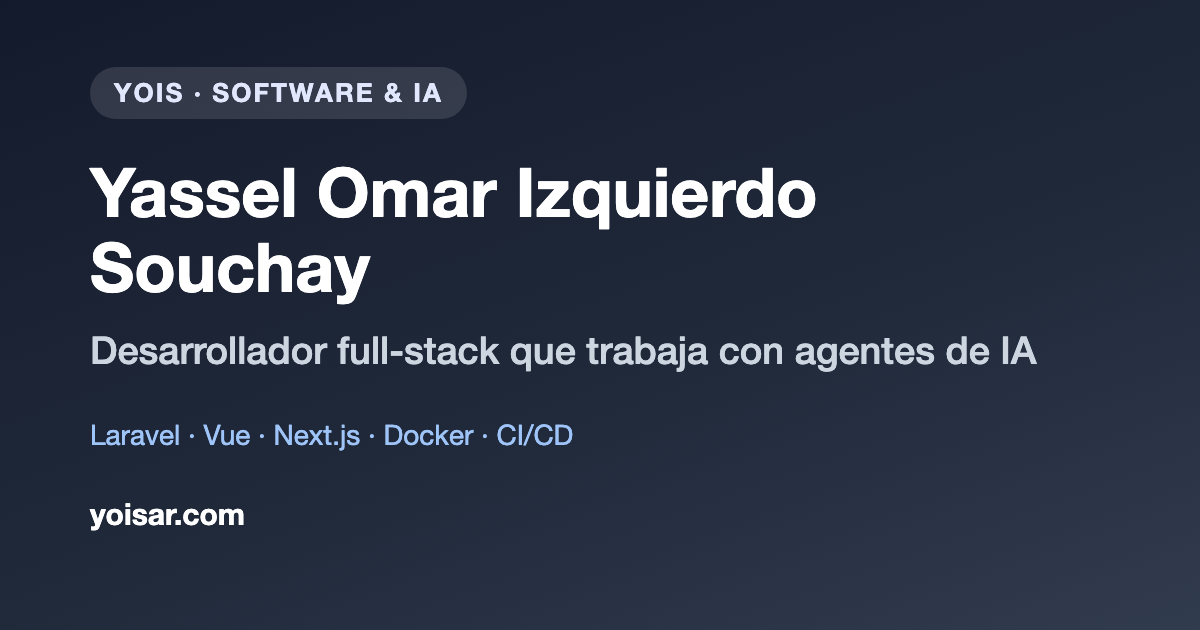
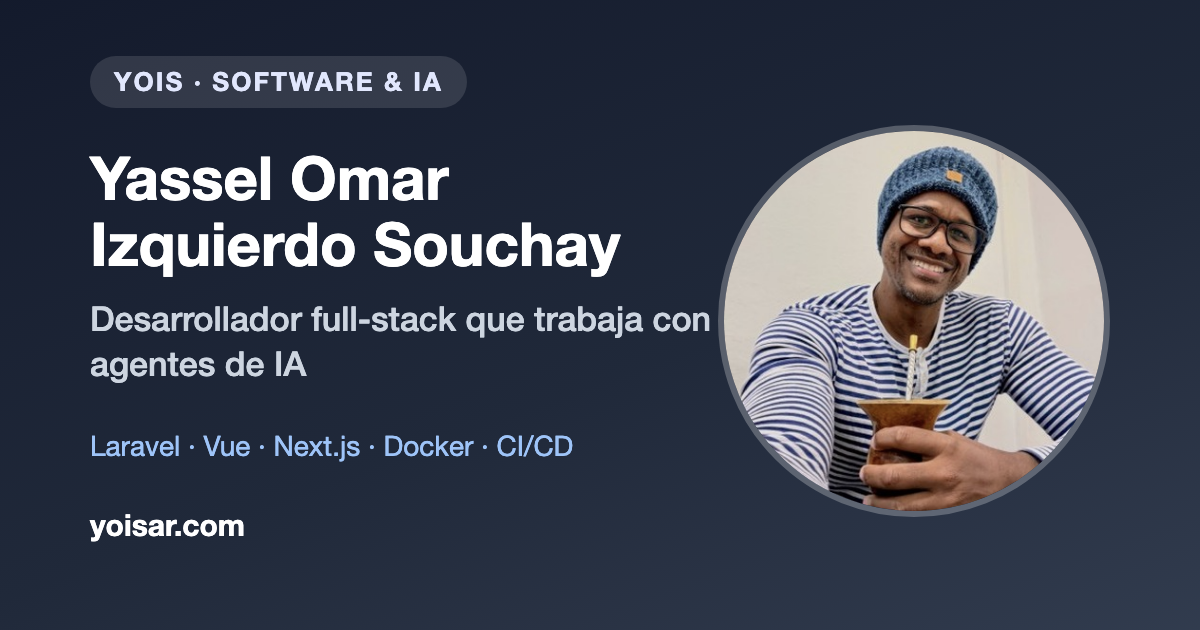
fix(deploy): publicar build en el directorio que sirve nginx; foto de perfil y OG
- deploy-prod.sh copia el build del contenedor a frontend/build (el vhost del host lo sirve desde disco)
- Foto de perfil de LinkedIn en hero, JSON-LD e imagen para compartir

diff --git a/docs/cv/og-image.html b/docs/cv/og-image.html
@@ -1,13 +1,15 @@
 <!doctype html><html><head><meta charset="utf-8"><style>
 html,body{margin:0;width:1200px;height:900px}html{background:#0f172a}
-body{background:linear-gradient(160deg,#0f172a 0%,#1e293b 55%,#334155 100%);font-family:-apple-system,"Helvetica Neue",Arial,sans-serif;color:#fff;display:flex;flex-direction:column;justify-content:center;padding:0 90px;box-sizing:border-box}
+body{background:linear-gradient(160deg,#0f172a 0%,#1e293b 55%,#334155 100%);font-family:-apple-system,"Helvetica Neue",Arial,sans-serif;color:#fff;display:flex;flex-direction:column;justify-content:center;padding:0 90px;position:relative;box-sizing:border-box}
 .badge{display:inline-block;align-self:flex-start;background:rgba(255,255,255,.12);color:#e0e7ff;letter-spacing:.08em;font-size:26px;font-weight:600;padding:10px 24px;border-radius:999px;margin-bottom:36px}
-h1{font-size:68px;line-height:1.1;margin:0 0 20px;font-weight:800}
-h2{font-size:38px;line-height:1.3;margin:0 0 44px;font-weight:500;color:#cbd5e1}
+h1{max-width:640px;font-size:60px;line-height:1.1;margin:0 0 20px;font-weight:800}
+h2{font-size:34px;max-width:640px;line-height:1.3;margin:0 0 44px;font-weight:500;color:#cbd5e1}
 .stack{font-size:28px;color:#93c5fd;margin:0 0 14px}
+.photo{position:absolute;right:90px;top:50%;margin-top:-190px;width:380px;height:380px;border-radius:50%;object-fit:cover;border:6px solid rgba(255,255,255,.25)}
+.text{max-width:640px}
 .url{font-size:30px;color:#fff;font-weight:700}
 </style></head><body>
-<span class="badge">YOIS · SOFTWARE &amp; IA</span>
+<img class="photo" src="yois-perfil.jpg" alt=""><span class="badge">YOIS · SOFTWARE &amp; IA</span>
 <h1>Yassel Omar Izquierdo Souchay</h1>
 <h2>Desarrollador full-stack que trabaja con agentes de IA</h2>
 <p class="stack">Laravel · Vue · Next.js · Docker · CI/CD</p>

diff --git a/frontend/public/index.html b/frontend/public/index.html
@@ -20,7 +20,7 @@
   <meta name="twitter:description" content="Sistemas en producción para el sector público y SaaS propios, con agentes de IA y pruebas automatizadas.">
   <meta name="twitter:image" content="https://yoisar.com/og-image.png">
   <script type="application/ld+json">
-  {"@context":"https://schema.org","@type":"Person","name":"Yassel Omar Izquierdo Souchay","alternateName":"YOIS","url":"https://yoisar.com/","image":"https://yoisar.com/og-image.png","jobTitle":"Desarrollador full-stack","email":"me@yoisar.com","sameAs":["https://github.com/yoisar","https://www.linkedin.com/in/yoisar/"],"knowsAbout":["Laravel","Vue.js","Next.js","PostgreSQL","Docker","CI/CD","Inteligencia artificial aplicada","RAG"]}
+  {"@context":"https://schema.org","@type":"Person","name":"Yassel Omar Izquierdo Souchay","alternateName":"YOIS","url":"https://yoisar.com/","image":"https://yoisar.com/yois-perfil.jpg","jobTitle":"Desarrollador full-stack","email":"me@yoisar.com","sameAs":["https://github.com/yoisar","https://www.linkedin.com/in/yoisar/"],"knowsAbout":["Laravel","Vue.js","Next.js","PostgreSQL","Docker","CI/CD","Inteligencia artificial aplicada","RAG"]}
   </script>
 
   <link rel="preconnect" href="https://fonts.googleapis.com">

diff --git a/frontend/src/App.js b/frontend/src/App.js
@@ -259,6 +259,8 @@ export default function PresentacionYassel() {
                                       style={{ background: 'rgba(255,255,255,0.12)', color: '#e0e7ff', letterSpacing: '0.08em', fontSize: '0.8rem' }}>
                                     {t('hero.badge')}
                                 </span>
+                                <img src="/yois-perfil.jpg" alt={FULL_NAME} width="96" height="96"
+                                     className="rounded-circle mb-3 border border-3 border-light border-opacity-25" />
                                 <p className="text-white-50 fw-semibold mb-2">{FULL_NAME}</p>
                                 <h1 className="display-4 fw-bold text-white mb-3" style={{ lineHeight: 1.15 }}>
                                     {t('hero.title')}

diff --git a/docs/yois/req-ANEXO N3 – SISTEMA DE NAVEGACIÓN CON MENÚ HAMBURGUESA LATERAL IZQUIERDA.md b/docs/yois/req-ANEXO N3 – SISTEMA DE NAVEGACIÓN CON MENÚ HAMBURGUESA LATERAL IZQUIERDA.md
@@ -1,0 +1,102 @@
+# REQUERIMIENTO ANEXO N°3 – SISTEMA DE NAVEGACIÓN CON MENÚ HAMBURGUESA LATERAL IZQUIERDA
+**Ref.:** Adenda al reposicionamiento de yoisar.com
+**Fecha:** 2026-06-20
+**Voz obligatoria:** Primera persona del singular (Yo / Mí / Mío)
+
+---
+
+## 1. Justificación Estratégica del Menú Lateral Izquierdo
+
+Yo necesito que mi sitio web tenga un sistema de navegación claro, ordenado y siempre accesible. Decido ubicar el menú tipo "hamburguesa" (ícono de tres líneas horizontales) en la **esquina superior izquierda** de mi pantalla por las siguientes razones:
+
+- **Jerarquía visual:** Al dejar la derecha libre, puedo ubicar mis principales Call To Action (Ej: "Cotizá conmigo" o el selector de idiomas) en la zona de mayor interacción del usuario (derecha superior), sin saturar el header.
+- **Estética corporativa:** Los dashboards empresariales y plataformas SaaS suelen usar la izquierda para la navegación profunda. Esto refuerza mi imagen de proveedor de software serio.
+- **Acceso rápido a mi portfolio:** Mi mayor activo de venta son mis proyectos. Este menú debe ser el vehículo principal para que el visitante pueda explorar **todos y cada uno de mis desarrollos** en menos de 2 clics, sin tener que scrollear interminablemente.
+
+---
+
+## 2. Especificaciones Funcionales del Componente
+
+### 2.1. Comportamiento del Ícono (Hamburguesa)
+- El ícono de tres líneas horizontales debe ser **fijo (sticky)** en el header y permanecer visible en todo momento mientras el usuario navega por mi landing page.
+- Al hacer clic o tocar sobre el ícono, se debe desplegar un **panel lateral (drawer / off-canvas)** que emerge desde el borde izquierdo de la pantalla hacia la derecha, cubriendo parcialmente el contenido principal (aproximadamente un 75% del ancho en escritorio y el 100% en dispositivos móviles).
+- El fondo del contenido principal debe oscurecerse (efecto overlay) para enfocar la atención del usuario en el menú.
+- Para cerrar el menú, el usuario debe poder:
+    - Tocar nuevamente el ícono de la "X" (cerrar) dentro del panel.
+    - Hacer clic en el área oscurecida del fondo (overlay).
+    - Presionar la tecla "ESC" del teclado.
+
+### 2.2. Estructura de Contenido Interno del Drawer
+El panel lateral debe estar organizado en dos bloques claramente diferenciados visualmente, utilizando la paleta corporativa definida en el Anexo N°2 (fondos slate/gris, tipografía limpia).
+
+#### Bloque A: Acceso a Secciones Generales (Landing)
+Aquí debo ubicar los enlaces de anclaje (anchor links) que desplazan suavemente el scroll hacia las secciones principales de mi página de inicio:
+
+1. Inicio / Hero (Volver al principio).
+2. Mis Servicios (Desarrollo, SaaS, IA).
+3. Mi Infraestructura (Mi diferencial técnico).
+4. Contacto / Hablemos.
+
+#### Bloque B: Listado Completo de Mis Proyectos (Obligatorio)
+Este es el corazón del menú. Necesito que todos mis proyectos estén listados de forma explícita, con su nombre, estado y un enlace directo. Para mantener el orden visual, agruparé mis proyectos en subcategorías dentro del mismo bloque:
+
+**📌 Mis Proyectos Comerciales (SaaS / Propios):**
+- VentaRifas.com (Activo)
+- Distriboo (Activo)
+- Yois Snacks (Activo)
+- Planning Yoisar (🚀 En desarrollo)
+- PortalCheck (🚀 En desarrollo)
+
+**📌 Mis Proyectos Gubernamentales (Misión Crítica):**
+- CGM - Sistema de Gestión (Activo - Gobierno de Misiones)
+- App Patología - Hospital Madariaga (Activo)
+
+**📌 Proyectos para Terceros (Modernización):**
+- Guajira - Modernización Frontend (🚀 En curso - `front.guajira.dev.yoisar.com`)
+
+---
+
+## 3. Experiencia de Usuario (UX) al Seleccionar un Proyecto
+
+- **Si el proyecto tiene un dominio propio o una URL pública (ej. VentaRifas, Guajira):** Al hacer clic en su nombre, el enlace debe abrirse en una **nueva pestaña** (`target="_blank"`). Esto es clave para que el visitante no abandone mi sitio principal y pueda volver fácilmente al menú para seguir explorando.
+- **Si el proyecto está en desarrollo y no tiene vista pública:** Al hacer clic, el menú debe cerrarse y la página debe hacer scroll hasta la sección de "Portfolio" en el landing, resaltando brevemente la ficha del proyecto (para que el usuario lea la descripción completa).
+- **Cierre automático:** Una vez que el usuario hace clic en cualquier opción (sección o proyecto), el panel lateral debe cerrarse automáticamente para no obstruir la vista del contenido seleccionado.
+
+---
+
+## 4. Integración con la Internacionalización (i18n)
+
+Todos los textos dentro del menú hamburguesa deben ser traducidos al **Inglés y Portugués**, manteniendo la coherencia con el selector de idiomas definido en el Anexo N°2.
+
+- **Español:** "Mis Proyectos", "Servicios", "Infraestructura", "Contacto".
+- **Inglés:** "My Projects", "Services", "Infrastructure", "Contact".
+- **Portugués:** "Meus Projetos", "Serviços", "Infraestrutura", "Contato".
+
+Los nombres de los proyectos (VentaRifas, Distriboo, PortalCheck, etc.) son **marcas registradas/nombres propios** y no deben traducirse bajo ningún concepto, solo se traducirá su descripción de estado (Activo / En desarrollo / En curso).
+
+---
+
+## 5. Ajuste de Diseño Corporativo (Tailwind)
+
+- **Ícono:** El ícono hamburguesa debe ser de un color sobrio (blanco o gris claro si el header es oscuro, o azul marino si el header es claro), con un tamaño adecuado para ser tocado cómodamente en móviles (mínimo 44x44 píxeles).
+- **Panel desplegado:** Debe tener un fondo sólido (blanco o gris muy claro) que contraste con el overlay oscuro. Los ítems del menú deben tener un **efecto hover suave** (cambio de color de fondo o subrayado) para darle una sensación corporativa y pulida.
+- **Separadores visuales:** Usar líneas divisorias sutiles o un espaciado notable entre el Bloque A (Secciones) y el Bloque B (Proyectos) para que el usuario entienda rápidamente que hay dos tipos de navegación disponibles.
+- **Badges de estado:** Junto a cada proyecto, debo mostrar una etiqueta (badge) pequeña con el estado (verde para "Activo", amarillo para "En desarrollo", azul para "Misión Crítica"), tal como se estipuló en el Anexo N°1. Esto le da al usuario información de madurez del producto sin necesidad de salir del menú.
+
+---
+
+## 6. Prioridad de Visibilidad (Importante)
+
+El menú hamburguesa en la izquierda será el **principal sistema de navegación** en dispositivos móviles y tablets. En escritorio, además del menú hamburguesa (que permanecerá visible), podré tener en el header derecho los botones de "Selector de idioma" y "Cotizar", pero el acceso a la lista de proyectos **solo** estará disponible de forma tan rápida y completa a través de este panel lateral izquierdo. 
+
+Esto obliga a los visitantes a interactuar con mi menú, descubriendo la totalidad de mi portfolio (incluyendo Guajira y los proyectos en desarrollo) desde el primer momento.
+
+---
+
+## 7. Criterios de Aceptación
+
+- [ ] El ícono de la hamburguesa está anclado en la esquina superior izquierda y es visible en todos los breakpoints.
+- [ ] El panel lateral se abre desde la izquierda ocupando el ancho estipulado y se cierra correctamente con los métodos descritos.
+- [ ] La lista de proyectos dentro del menú contiene **absolutamente todos** los mencionados en la historia (VentaRifas, Distriboo, Yois Snacks, Planning, PortalCheck, CGM, App Patología y Guajira).
+- [ ] Los enlaces a proyectos externos (VentaRifas, Guajira, etc.) abren en nueva pestaña.
+- [ ] Los textos del menú cambian dinámicamente según el idioma seleccionado (ES/EN/PT).

diff --git a/docs/yois/req-AJUSTE-GRAMATICAL-SEMÁNTICO–ELIMINACIÓN-POSESIVO-MI-MÍO-EN PROYECTOS.md b/docs/yois/req-AJUSTE-GRAMATICAL-SEMÁNTICO–ELIMINACIÓN-POSESIVO-MI-MÍO-EN PROYECTOS.md
@@ -1,0 +1,103 @@
+# REQUERIMIENTO DE AJUSTE GRAMATICAL Y SEMÁNTICO – ELIMINACIÓN DEL POSESIVO "MI/MÍO" EN PROYECTOS
+**Ref.:** Corrección de voz y propiedad intelectual
+**Fecha:** 2026-06-21
+**Aplicación:** Obligatoria en textos, menús, títulos y descripciones de proyectos
+
+---
+
+## 1. Principio Fundamental (La Regla de Oro)
+
+A partir de este momento, queda **terminantemente prohibido** utilizar los posesivos **"Mi"**, **"Mis"**, **"Mío"**, **"Mía"**, **"Míos"** o **"Mías"** para anteceder o referirse a **cualquier proyecto, sistema o aplicación** listada en mi portfolio.
+
+La relación correcta que debo comunicar es la de **"autoría"** o **"desarrollo a cargo"**, no la de "propiedad". Para expresar esto, debo utilizar:
+
+- **Verbos en primera persona de acción:** *"Desarrollo"*, *"Construyo"*, *"Diseñé"*, *"Estoy a cargo de"*, *"Trabajo en"*.
+- **Preposición "por" + "mí":** *"hecho por mí"*, *"desarrollado por mí"*, *"construido por Yois"*.
+- **Sustantivos de relación:** *"Proyectos que desarrollo"*, *"Sistemas a mi cargo"*, *"Trabajos realizados"*.
+
+---
+
+## 2. Aplicación por Tipología de Proyecto (Casos concretos)
+
+| **Tipo de Proyecto** | **Ejemplo INCORRECTO (Prohibido)** | **Ejemplo CORRECTO (Obligatorio)** | **Justificación** |
+| :--- | :--- | :--- | :--- |
+| **Gubernamentales (CGM, Hospital)** | *"Mi sistema CGM"* / *"Mi desarrollo para el Gobierno"* | *"El sistema CGM, desarrollado por mí para la Casa de Gobierno"* / *"Sistema que construí para el Hospital Madariaga"* | El sistema es del Estado. Yo fui el contratista/desarrollador, no el dueño. |
+| **Salud (App Patología)** | *"Mi aplicación de Patología"* | *"La aplicación de Patología del Hospital Madariaga, cuyo desarrollo estuve a cargo"* | El activo digital pertenece al nosocomio. |
+| **Proyectos Personales (SaaS)** | *"Mi VentaRifas"* / *"Mi Distriboo"* | *"VentaRifas, plataforma que desarrollo y opero"* / *"Distriboo, proyecto SaaS construido por mí"* | Aunque soy dueño legal, semánticamente debo enfatizar el *trabajo de desarrollo* por encima de la posesión para unificar el criterio en toda la web. |
+| **Proyectos para Terceros (Guajira)** | *"Mi proyecto Guajira"* | *"Guajira, proyecto de modernización frontend en el que estoy trabajando para un tercero"* | El código y el sistema son del cliente; yo solo proveo el servicio de modernización. |
+| **Proyectos en Desarrollo** | *"Mi Planning Yoisar"* | *"Planning Yoisar, herramienta que estoy desarrollando actualmente"* | Uso el verbo en gerundio para mostrar acción continua. |
+
+---
+
+## 3. Impacto en las Secciones del Sitio (Correcciones forzosas)
+
+### 3.1. En el Hero (Cabecera)
+- **Texto Actual (Incorrecto):** *"Conocé mis proyectos."*
+- **Texto Corregido (Obligatorio):** *"Conocé los proyectos que desarrollo."* o *"Explorá mi trabajo en software."*
+
+### 3.2. En el Menú Hamburguesa (Bloque de Proyectos)
+- **Título del Bloque (Incorrecto):** *"Mis Proyectos"*
+- **Título del Bloque (Corregido):** *"Proyectos Desarrollados"* o *"Portfolio de Soluciones"* (manteniendo la coherencia i18n: *Developed Projects* / *Projetos Desenvolvidos*).
+- **Listado interno:**
+    - *Incorrecto:* "Mi VentaRifas"
+    - *Corregido:* "VentaRifas (Activo)" – así, sin posesivo, directo al nombre de la marca.
+
+### 3.3. En la Sección "Sobre Mí / Enfoque"
+- **Incorrecto:** *"Mis proyectos abarcan desde el Gobierno..."*
+- **Corregido:** *"Los proyectos que desarrollo abarcan desde sistemas gubernamentales..."* o *"He desarrollado soluciones para el Gobierno y el sector privado."*
+
+### 3.4. En las Fichas de Portfolio (Descripciones)
+- **Incorrecto:** *"Mi sistema de gestión documental para la Casa de Gobierno de Misiones."*
+- **Corregido:** *"Sistema de gestión documental que desarrollé para la Casa de Gobierno de Misiones."*
+- **Incorrecto:** *"Mi desarrollo aplicativo para el área de patología."*
+- **Corregido:** *"Aplicativo para el área de patología del Hospital Madariaga, construido por mí para digitalizar procesos críticos."*
+
+---
+
+## 4. Excepciones Lógicas (Lo que SÍ puedo llamar "Mío")
+
+Para evitar un exceso de corrección robótica, se establece que **sí está permitido** usar el posesivo "mi/mis" cuando me refiera a:
+
+1. **Mi infraestructura:** (Servidores, nube, microservicios) porque es patrimonio técnico que compré y administro yo.
+2. **Mis servicios:** (Desarrollo, SaaS, IA) porque son mis capacidades profesionales y oferta comercial.
+3. **Mi enfoque / mi metodología:** Porque es mi forma de trabajar.
+
+**Ejemplo permitido:** *"Ofrezco mis servicios de desarrollo e IA corriendo sobre mi propia infraestructura."* (Aquí "mis servicios" y "mi infraestructura" son correctos).  
+**Ejemplo prohibido:** *"Ofrezco mis servicios para mi sistema CGM."* → Debe ser: *"Ofrezco mis servicios para el sistema CGM, que desarrollé."*
+
+---
+
+## 5. Impacto en la Internacionalización (i18n)
+
+Esta corrección semántica debe trasladarse a los tres idiomas:
+
+- **Inglés:** Reemplazar *"My projects"* por *"Projects I develop"* o *"Portfolio"*. Reemplazar *"My system"* por *"The system I built"*.
+- **Portugués:** Reemplazar *"Meus projetos"* por *"Projetos que desenvolvo"*. Reemplazar *"Meu sistema"* por *"O sistema que desenvolvi"*.
+
+**Nota:** Los nombres propios de los proyectos (VentaRifas, CGM, PortalCheck, Guajira) no se traducen ni se modifican.
+
+---
+
+## 6. Resumen de Reemplazos Léxicos (Buscar y Reemplazar conceptual)
+
+| **Término Prohibido** | **Término Sugerido para Reemplazo** |
+| :--- | :--- |
+| Mi proyecto | El proyecto que desarrollo |
+| Mis proyectos | Los proyectos que desarrollo / Los proyectos a mi cargo |
+| Mi sistema | El sistema que construí / El sistema desarrollado |
+| Mi aplicación | La aplicación desarrollada por mí |
+| Mi plataforma | La plataforma que diseñé |
+| Mi SaaS | El SaaS que opero / El producto SaaS que construyo |
+| Mi desarrollo | El desarrollo realizado |
+
+---
+
+## 7. Criterios de Aceptación
+
+- [ ] El 100% de las referencias a sistemas gubernamentales y de salud en la web han eliminado el posesivo "Mi/Mis".
+- [ ] Las fichas de portfolio comienzan con el **nombre del proyecto** (sin posesivo) seguido del verbo en pasado o presente (*"desarrollé"*, *"estoy desarrollando"*).
+- [ ] El menú hamburguesa lista los proyectos únicamente por su nombre comercial, sin prefijos posesivos.
+- [ ] La sección de "Infraestructura" y "Servicios" conserva el posesivo permitido, diferenciando claramente entre *lo que poseo* (servidores/capacidades) y *lo que entrego* (código/sistemas).
+- [ ] Todas las versiones traducidas (EN/PT) reflejan esta misma lógica de no-posesión.
+
+---

diff --git a/docs/analisis-empleabilidad-2026-10-23.md b/docs/analisis-empleabilidad-2026-10-23.md
@@ -113,13 +113,18 @@ Fuentes consultadas:
 - Correcciones: el mail del CV en inglés tenía un error de tipeo (`siqy23`); ahora figura `me@yoisar.com` y `sioy23@gmail.com`. Se quitaron los caracteres de ligadura rotos ("Per l", " ntech").
 - Se quitaron del CV los proyectos retirados.
 
-## 8. Pendientes que necesitan datos tuyos
+## 8. Tercera tanda (23/10/2026)
+
+- **Foto de perfil:** se usa la foto de LinkedIn (`~/Documents/foto-perfil-linkeding-yois.jpeg`, recortada para quitar la etiqueta "AUTOMÁTICA") en el hero, en `yois-perfil.jpg` (datos estructurados) y en la imagen para compartir `og-image.png`.
+- **Autorización para nombrar al hospital y a la Casa de Gobierno:** confirmada por el titular el 23/10/2026. Queda anotado; no se obtuvo constancia escrita en esta sesión.
+- **Sitio desactualizado tras el deploy (causa):** el vhost de nginx del host sirve `/www/wwwroot/yoisar.com/app/frontend/build` desde disco, pero el deploy solo reconstruía el contenedor del puerto 8090, que ese vhost no usa. El directorio seguía con el build del 21/06/2026. Corrección: `deploy-prod.sh` copia ahora el build del contenedor a ese directorio.
+- **Sitemap:** `robots.txt` ya lo declara. El alta en Google Search Console la tiene que hacer el dueño de la cuenta (ver §9).
+
+## 9. Pendientes que necesitan datos tuyos
 
 | Tarea | Qué falta |
 |---|---|
 | Agendar llamada | URL de Calendly, Cal.com o similar |
-| Foto de LinkedIn | Si querés tu foto en la imagen para compartir, hay que bajarla a mano y reemplazar `og-image.png` |
 | Repo público | Un proyecto chico y abierto con README que explique el uso de IA |
 | Lista de empresas | Búsqueda manual en LinkedIn, Torre, Remote OK y We Work Remotely con "Claude Code", "agentic", "AI-assisted" |
-| Alta en Google Search Console | Enviar `sitemap.xml` |
-| Confirmación | Que el hospital y la Casa de Gobierno autoricen nombrarlos |
+| Alta en Google Search Console | Agregar la propiedad `https://yoisar.com/`, verificarla (registro DNS TXT) y enviar `https://yoisar.com/sitemap.xml` en Sitemaps |

diff --git a/docs/yois/req-Requerimiento de Corrección de Contenido y Estrategia de Marca.md b/docs/yois/req-Requerimiento de Corrección de Contenido y Estrategia de Marca.md
@@ -81,7 +81,7 @@
 | :--- | :--- | :--- |
 | **Infraestructura** | "Contamos con infraestructura dedicada..." | **"Cuento con mi propia infraestructura dedicada..."** |
 | **Propuesta** | "Nuestro diferencial es la escalabilidad." | **"Mi diferencial es la escalabilidad y la cercanía."** |
-| **Caso de éxito** | "Hemos desarrollado para el Gobierno." | **"Yo desarrollé el sistema para la Casa de Gobierno."** |
+| **Caso de éxito** | "Hemos desarrollado para el Gobierno." | **"Desarrollé el sistema para la Casa de Gobierno."** |
 | **Equipo** | "Somos proveedores tecnológicos." | **"Soy tu proveedor tecnológico personal."** |
 
 ---

diff --git a/docs/renovar-ssl-yoisar.md b/docs/renovar-ssl-yoisar.md
@@ -1,4 +1,4 @@
-# Renovar SSL de yoisar.com en el VPS con aaPanel
+**# Renovar SSL de yoisar.com en el VPS con aaPanel
 
 **Fecha de creación:** 9 de mayo de 2026  
 **Próxima expiración:** 7 de agosto de 2026  
@@ -151,3 +151,4 @@ crontab -e
 | PID de nginx | `/www/server/nginx/logs/nginx.pid` |
 | Webroot del dominio | `/www/wwwroot/yoisar.com` |
 | Log de acceso | `/www/wwwlogs/yoisar_access.log` |
+**
